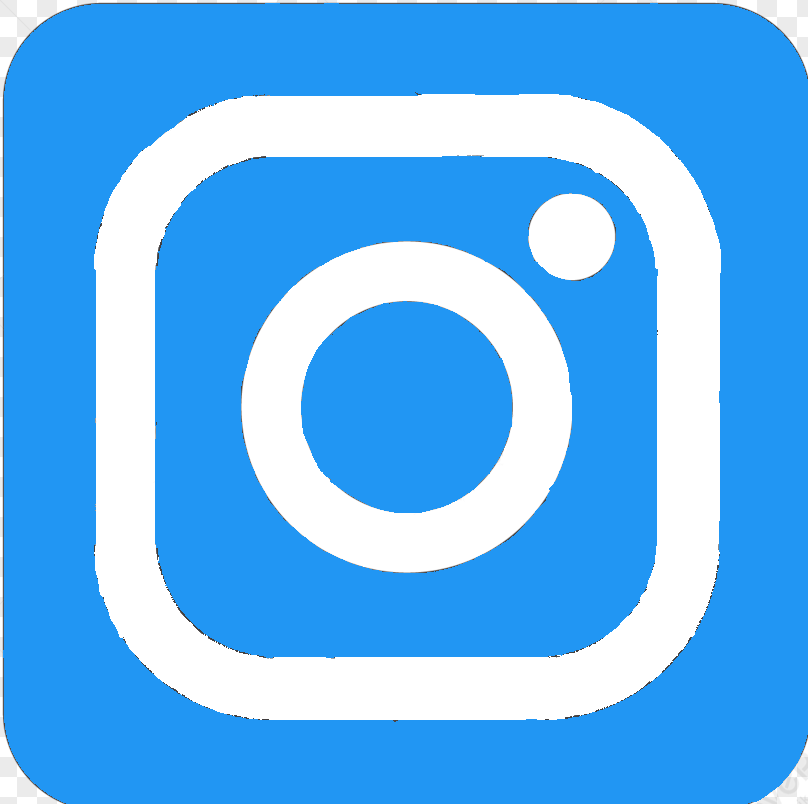
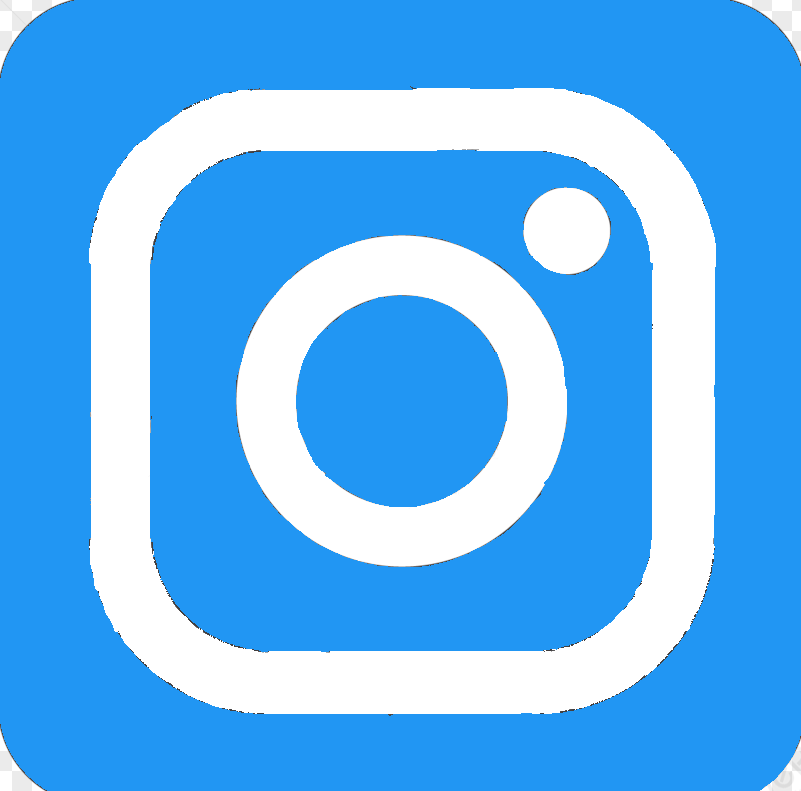
commit 4

diff --git a/contacts.html b/contacts.html
@@ -58,7 +58,7 @@
             <h1>Contact Me</h1>
             <div class="contact_container">
                 <input type="text" value="tristanmoreau2019@gmail.com" id="myInput">
-                <a href="https://www.instagram.com/tristanmreau/"><img src="Images_e_portfolio/icone_insta.png" class="icone_contact"/></a>
+                <a href="https://www.instagram.com/tristanmreau/" class="icone_contact_container"><img src="Images_e_portfolio/icone_insta.png" class="icone_contact"/></a>
                 <button onclick="myFunction()"><img src="Images_e_portfolio/icone_mail.png" class="icone_contact"/></button>
                 <a href="contacts.html"><img src="Images_e_portfolio/icone_facebook.png" class="icone_contact"/></a>
                 <a href="https://www.linkedin.com/in/tristan-moreau-a49438329/"><img src="Images_e_portfolio/icone_linkedin.png" class="icone_contact"/></a>

diff --git a/style_eportfolio.css b/style_eportfolio.css
@@ -208,6 +208,7 @@ div.texte_about_me {
     width: 8rem;
     padding: 2rem;
     height: 8rem;
+    border-radius: 3rem;
 }
 
 .icone_contact:hover {
@@ -415,4 +416,10 @@ div.texte_about_me {
 
 .contact_me_home input {
     display: none;
+}
+
+.icone_contact_container {
+    display: flex;
+    align-items: center;
+    justify-content: center;
 }
